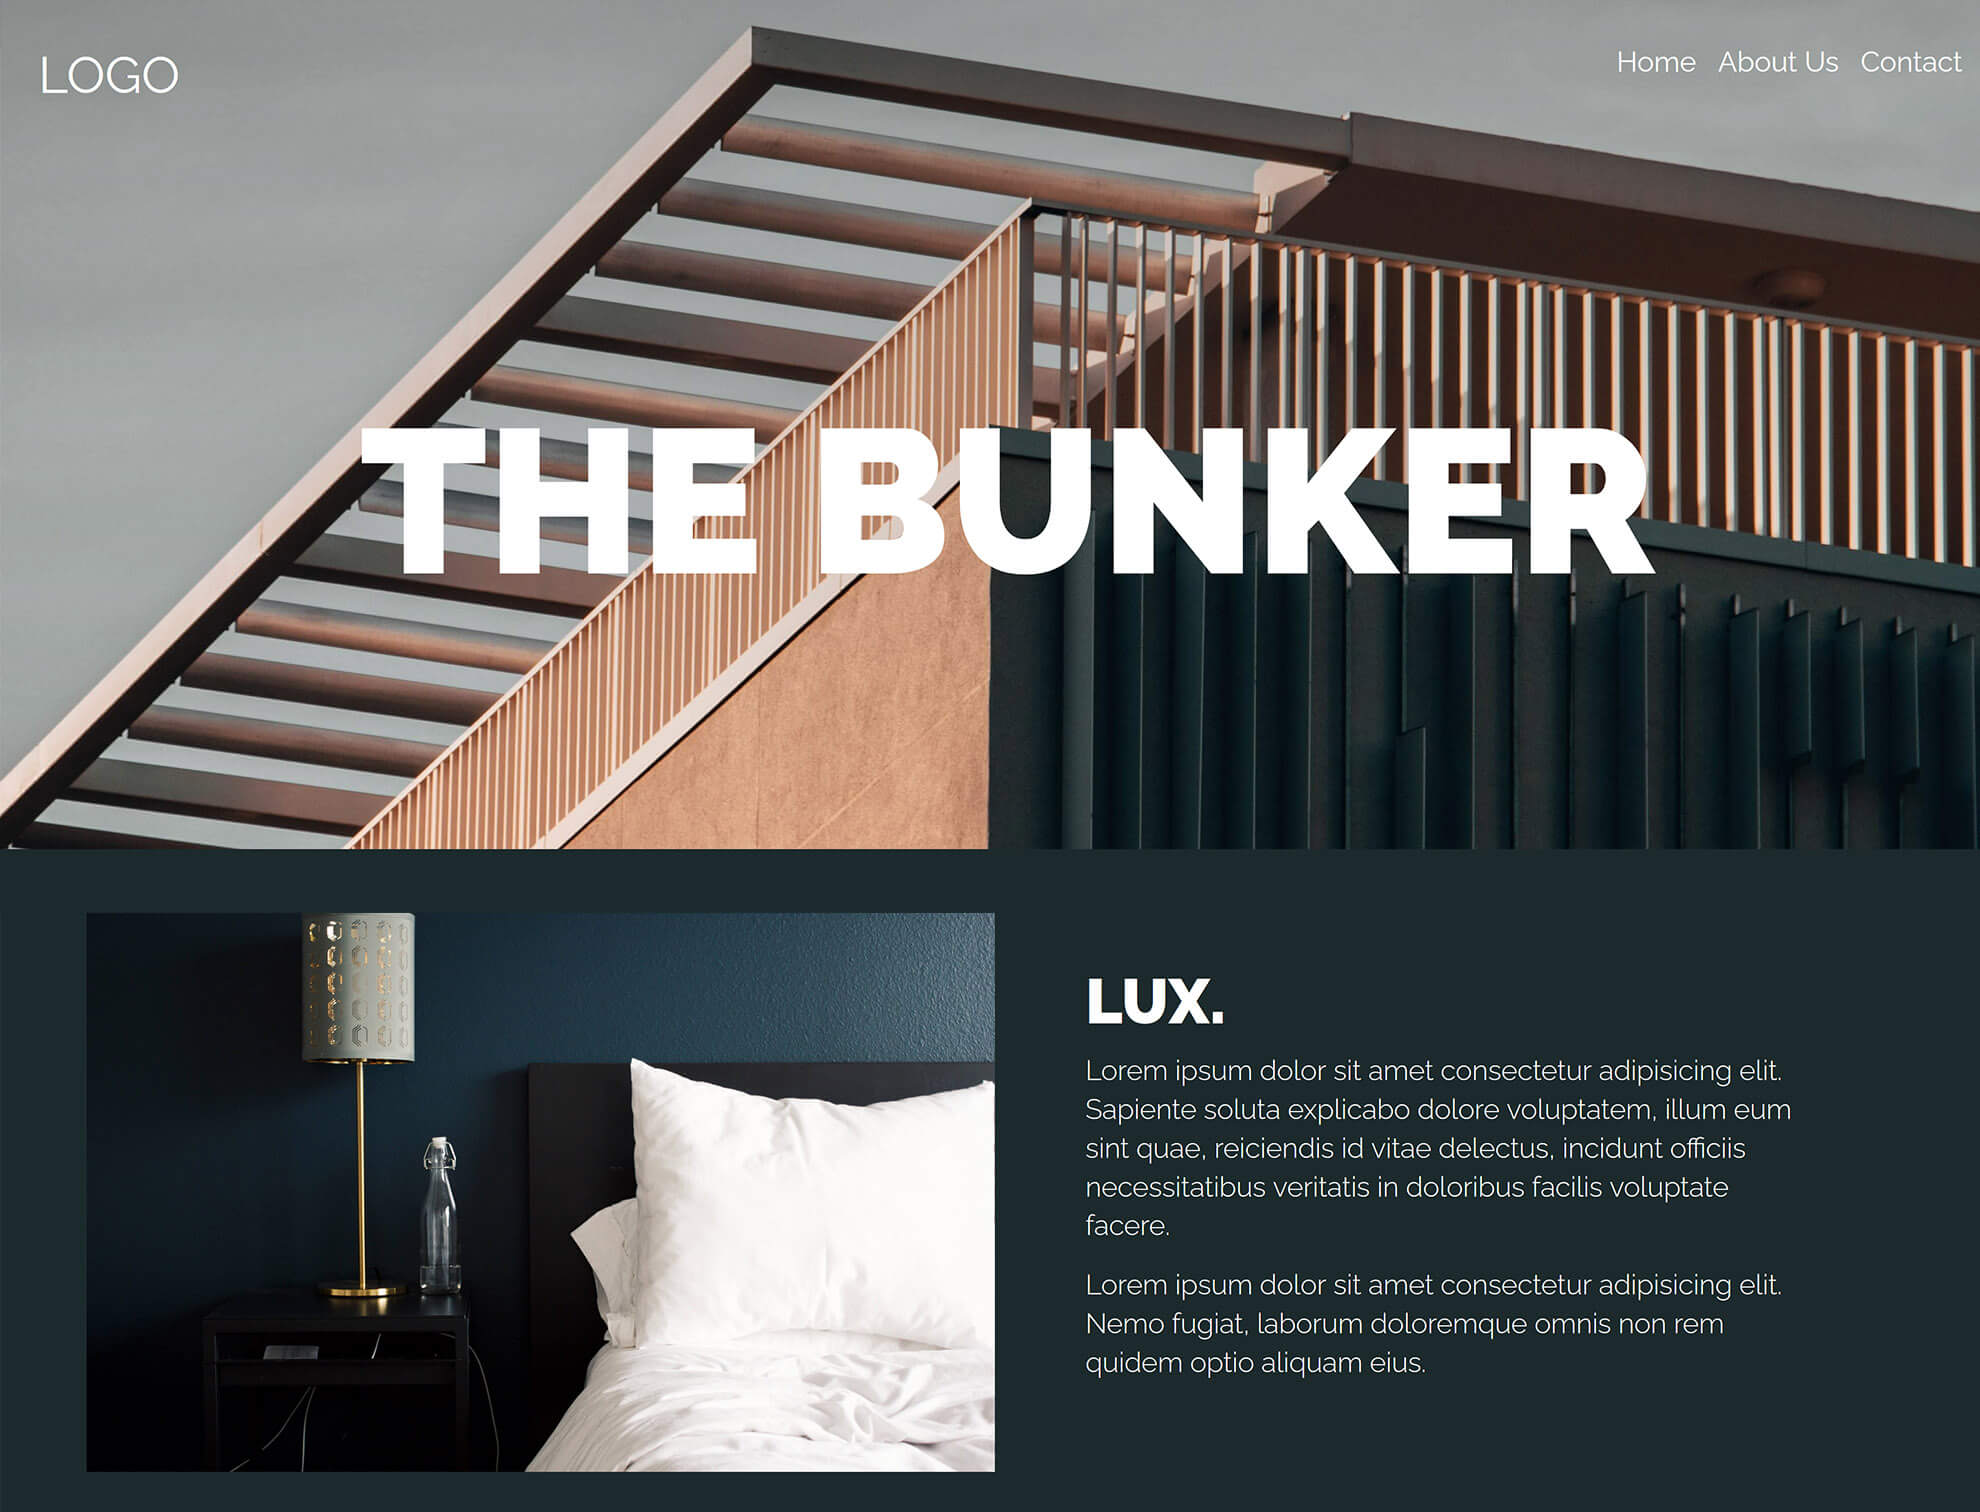
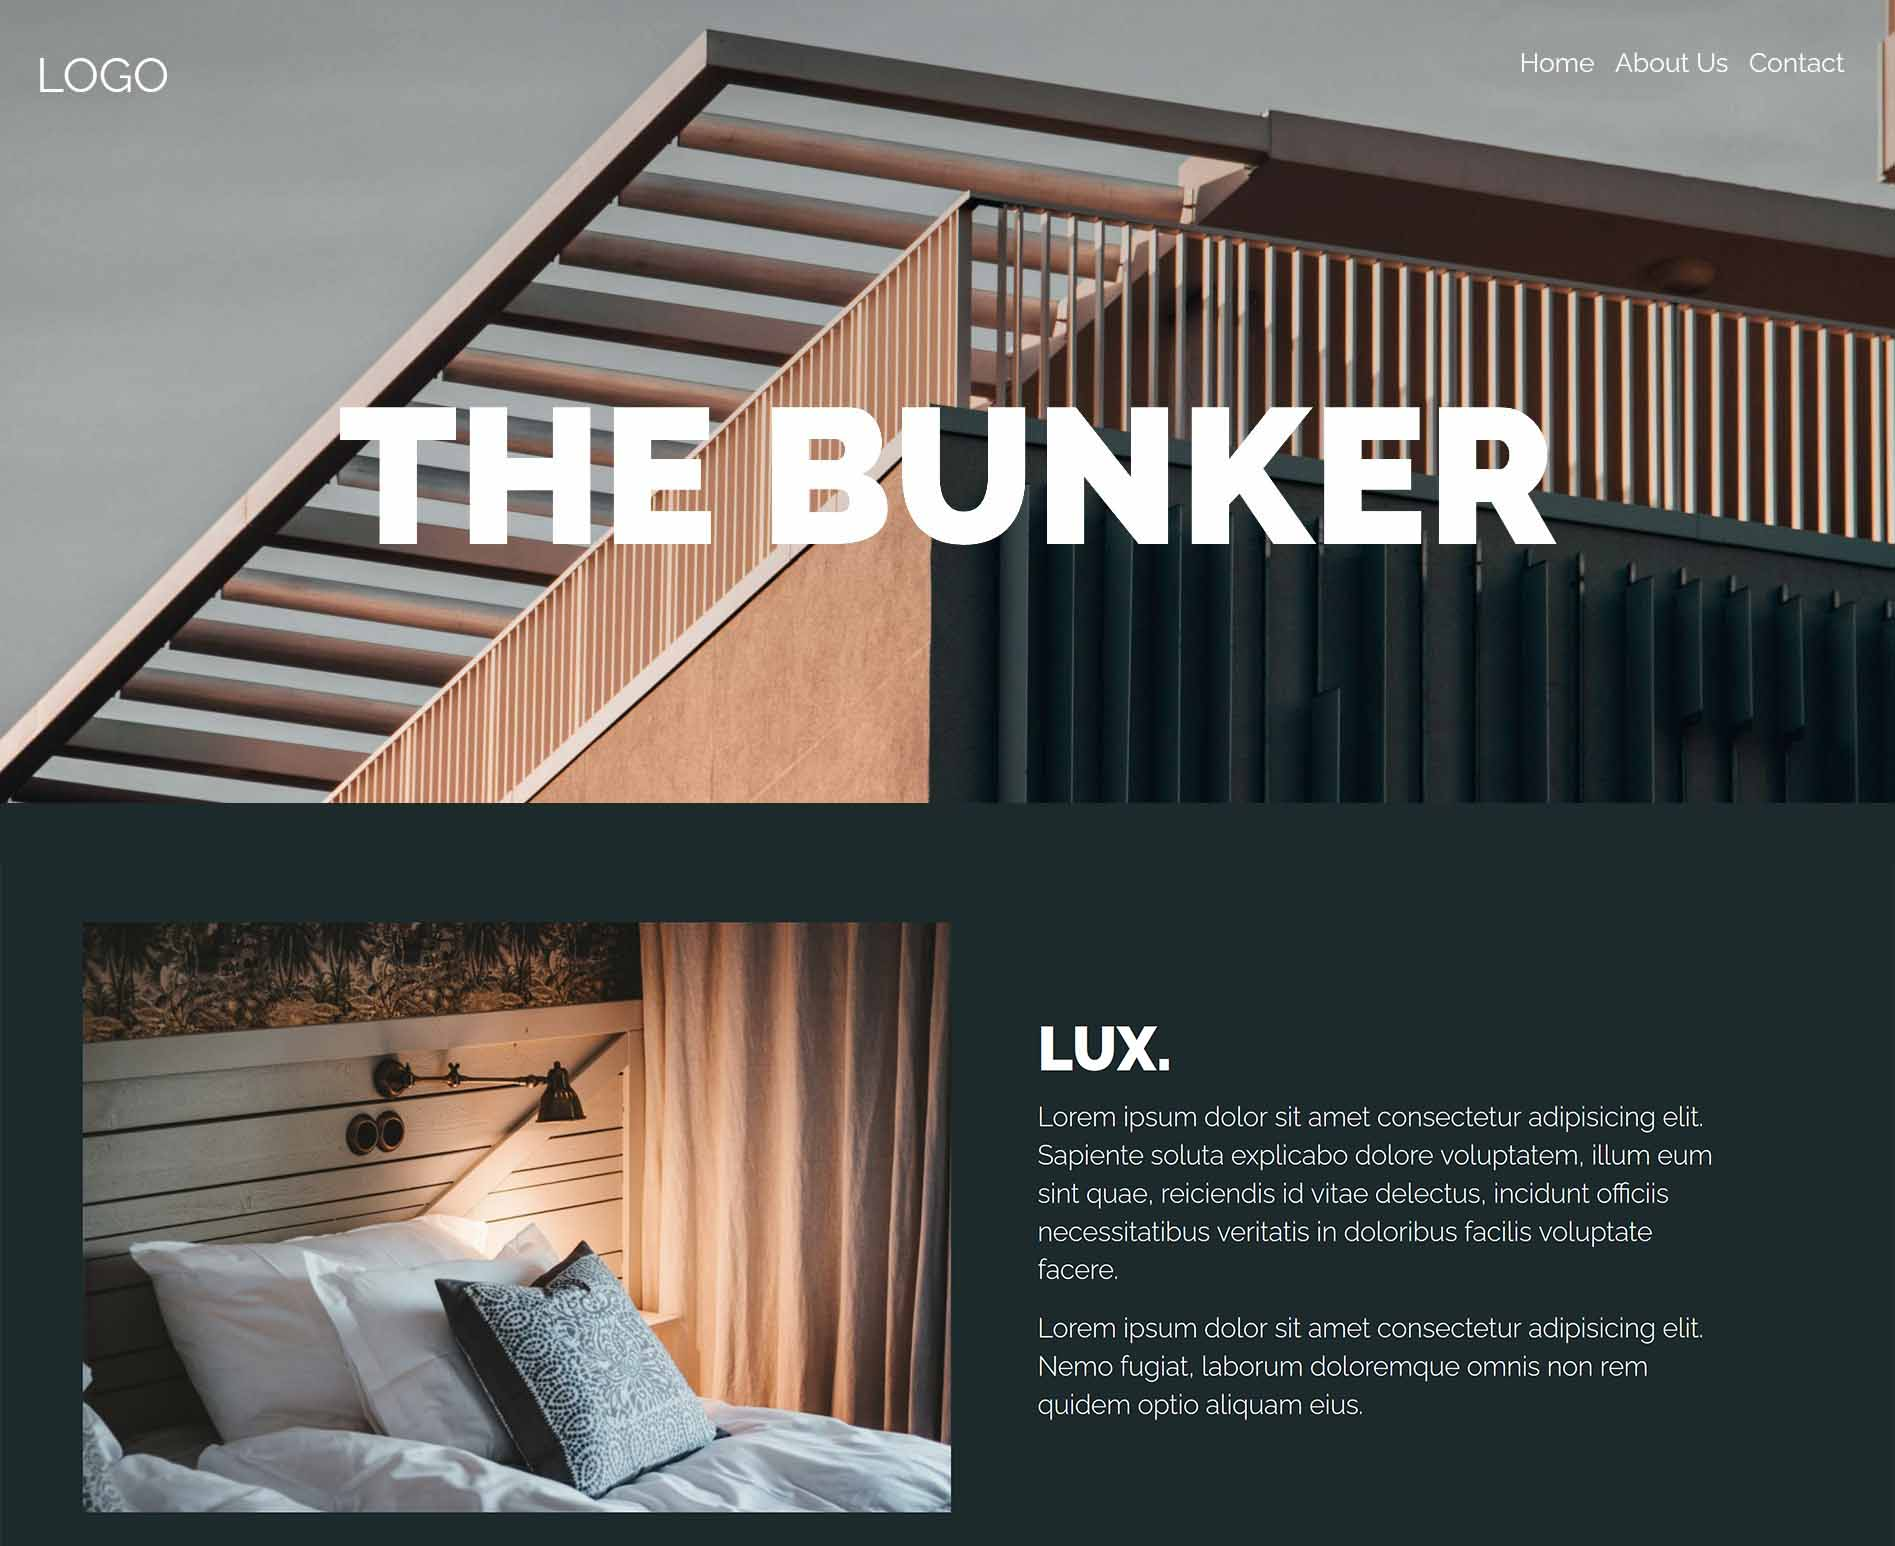
changes

diff --git a/index.html b/index.html
@@ -101,7 +101,7 @@ getButton: false
                 <a href="{{ project.live_url }}" class="button" target="_blank"> Go to site </a>
             </div>
             <div class="col-7_md-12-middle padded lazy md-padded-b-1">
-                <img src="{{ project.featured_image }}" alt="{{ project.title }}">
+                <div class="bg-image landscape lazy" style="background-image: url('{{project.featured_image}}'); "  alt="{{ project.title }}"> </div>
             </div>
         </div>
     {% endfor %}

diff --git a/portfolio.html b/portfolio.html
@@ -15,7 +15,7 @@ getButton: false
 <!-- Header Intro Section --------------- -->
 <section class="grid-bottom padded bg-cup bg-image tall-60 padded-b-1" >
     <div class="col- margin-b-15"> 
-        <!-- <h1 class="margin-b-05 subtle"> portfolio </h1> -->
+        <h1 class="margin-b-05 subtle-pop"> Portfolio </h1>
         <h1 class="text-big md-text-big uppercase">showcase<span class="text-featured">.</span> </h1> 
    
         <div class="col-" id="typed-strings"> 

diff --git a/_projects/project-2.html b/_projects/project-2.html
@@ -1,7 +1,7 @@
 ---
 title: The Bunker Hotel
 description: Lorem ipsum dolor sit amet consectetur adipisicing elit. Veritatis provident eaque accusamus illum! Fuga nesciunt facilis esse ipsam, cupiditate incidunt omnis, similique voluptatem ea nihil laborum consequuntur eum eius impedit.
-featured_image: /images/bunker-.jpg
+featured_image: /images/bunker-1.jpg
 background-position: 50% 50%
 live_url: https://the-bunker-hotel.netlify.app
 design-by: Lana Ugnivenko 
